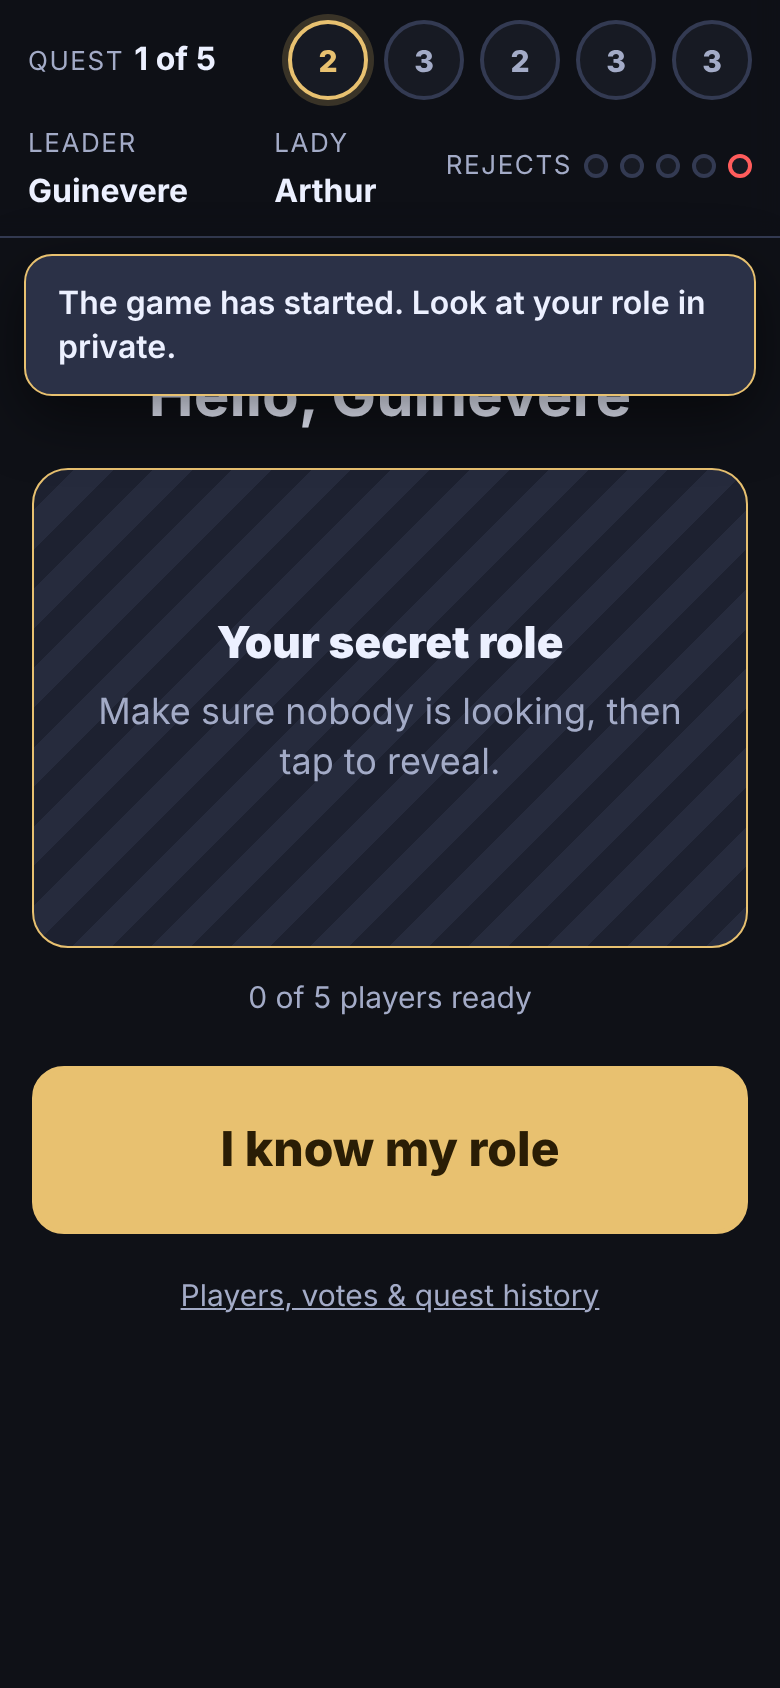
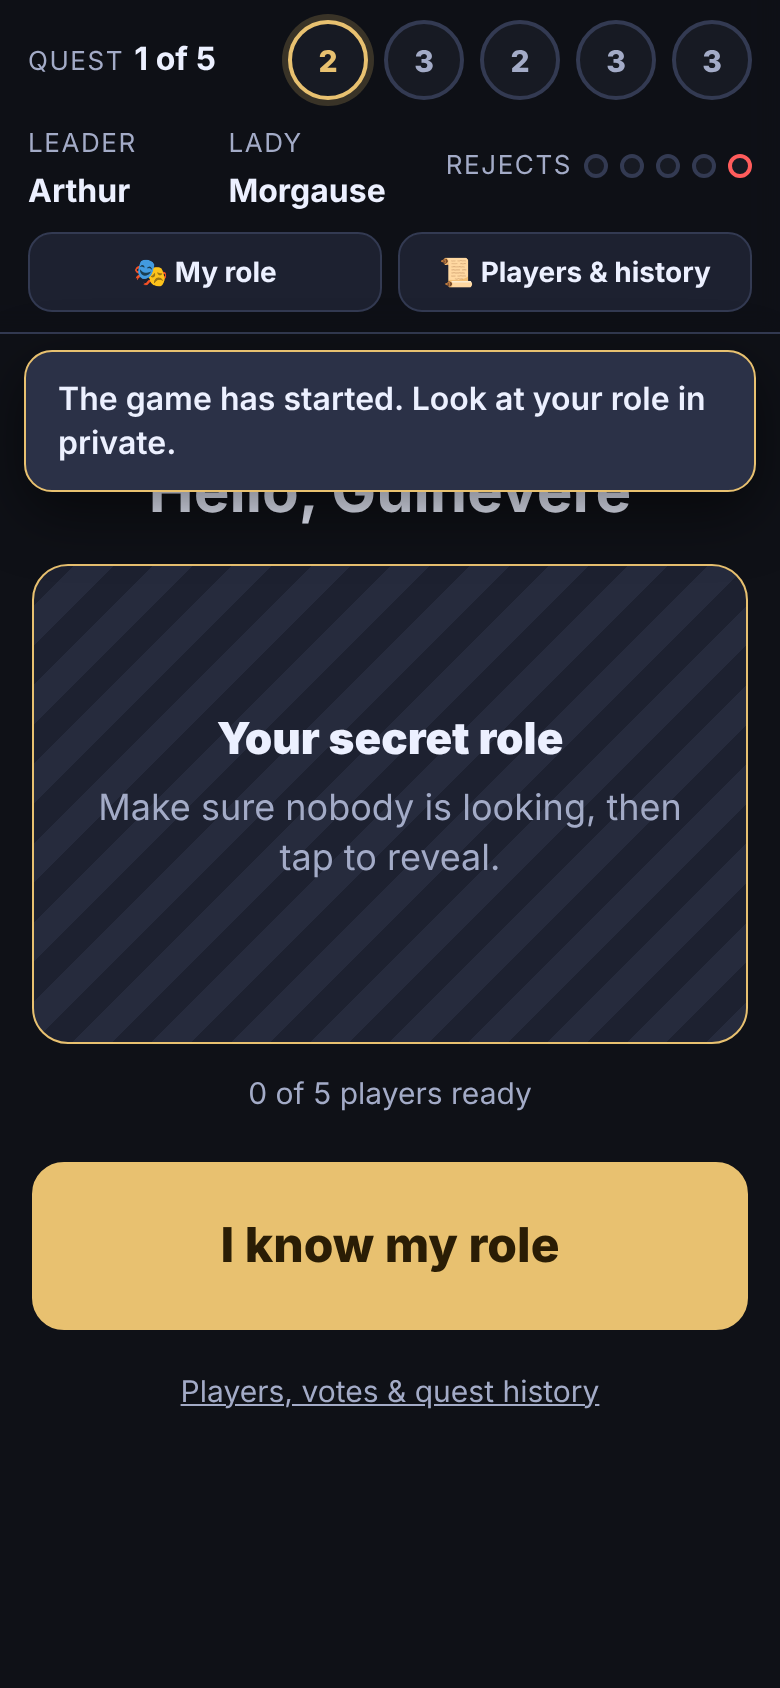
Quest result announcement, My role button, changeable votes, in-page confirmations
- Big 5-second quest result dialog (with an x to close) on every phone
  when a quest finishes.
- 'My role' button in the status bar re-opens the role card mid-game.
- Players can change their vote until everyone has voted (engine now
  replaces an existing vote instead of rejecting it).
- Replace the browser's confirm() with an in-page dialog: Android's
  WebView silently cancels native confirm(), which is why Restart (and
  kick/assassinate) did nothing on the host phone. The WebView also gets
  a WebChromeClient as belt and braces.

Claude-Session: https://claude.ai/code/session_01L9td7i8WK9tKyVLFpHJSvk

diff --git a/server/src/main/resources/web/app.js b/server/src/main/resources/web/app.js
@@ -193,8 +193,10 @@
     if (state.phase === 'LOBBY') ui.roleShown = false;
     const newEvent = state.lastEvent && state.lastEvent !== ui.lastEventShown;
     ui.lastEventShown = state.lastEvent;
+    if (prev && prev.phase !== state.phase && modalOnYes) closeModal(); // a pending confirmation is stale after a phase change
     render();
     if (newEvent && prev) banner(state.lastEvent); // after render, so it sits below the status bar
+    if (prev && state.quests.length > prev.quests.length) announceQuest(state.quests[state.quests.length - 1]);
   }
 
   // ------------------------------------------------------------ helpers
@@ -235,6 +237,23 @@
       text: 'A servant of darkness. You know your fellow evil players.',
       tips: ['Get picked for quests and play Fail (one is usually enough).', 'Reject teams full of good players; approve teams that include evil.', 'Help identify Merlin for the Assassin at the end.'] },
   };
+
+  /** The inside of a role card: picture, name, loyalty, what you know, how to play. */
+  function roleCardHtml(m) {
+    const info = ROLE_INFO[m.role] || { name: m.role, loyalty: m.loyalty, text: '', tips: [] };
+    const good = m.loyalty === 'GOOD';
+    let knowledge = '';
+    if (m.role === 'MERLIN') knowledge = `<div class="know"><h3>These players are evil</h3>${nameTags(m.knownEvil)}</div>`;
+    else if (m.role === 'PERCIVAL') knowledge = `<div class="know"><h3>Merlin and Morgana (in some order)</h3>${nameTags(m.merlinOrMorgana)}</div>`;
+    else if (!good) knowledge = `<div class="know"><h3>Your fellow evil players</h3>${m.evilTeammates.length ? nameTags(m.evilTeammates) : '<span class="muted">none</span>'}</div>`;
+    else knowledge = `<div class="know"><h3>What you know</h3><span class="muted">Only your own loyalty.</span></div>`;
+    return `${info.img ? roleImage(info) : ''}
+      <div class="loyalty">${good ? 'Good' : 'Evil'}</div>
+      <div class="role-name">${esc(info.name)}</div>
+      <p class="muted" style="font-size:16px">${esc(info.text)}</p>
+      ${knowledge}
+      <div class="know"><h3>How to play</h3><ul class="tips">${(info.tips || []).map((t) => `<li>${esc(t)}</li>`).join('')}</ul></div>`;
+  }
 
   function roleImage(info, cls) {
     return `<img class="${cls || 'role-img'}" src="img/${info.img}.png" alt="" onerror="if(!this.dataset.fb){this.dataset.fb=1;this.src='img/${info.img}.svg'}">`;
@@ -288,6 +307,10 @@
         <div style="min-width:0"><span class="label">Leader</span> <span class="value">${esc(nameOf(s.leaderId))}</span></div>
         ${lady}
         <div class="rejects" title="Rejected proposals this quest: ${s.rejections} of 5"><span class="label">Rejects</span> ${rejects}</div>
+      </div>
+      <div class="status-tools">
+        <button class="icon-btn" data-action="showRole">🎭 My role</button>
+        <button class="icon-btn" data-action="openHistory">📜 Players &amp; history</button>
       </div>`;
   }
 
@@ -354,20 +377,9 @@
     const ready = s.readyIds.length;
     const n = s.players.length;
     const done = m.pendingAction !== 'CONFIRM_ROLE';
-    let knowledge = '';
-    if (m.role === 'MERLIN') knowledge = `<div class="know"><h3>These players are evil</h3>${nameTags(m.knownEvil)}</div>`;
-    else if (m.role === 'PERCIVAL') knowledge = `<div class="know"><h3>Merlin and Morgana (in some order)</h3>${nameTags(m.merlinOrMorgana)}</div>`;
-    else if (!good) knowledge = `<div class="know"><h3>Your fellow evil players</h3>${m.evilTeammates.length ? nameTags(m.evilTeammates) : '<span class="muted">none</span>'}</div>`;
-    else knowledge = `<div class="know"><h3>What you know</h3><span class="muted">Only your own loyalty.</span></div>`;
-
     const card = ui.roleShown
       ? `<div class="card role-card ${good ? 'good' : 'evil'}" data-action="toggleRole">
-           ${roleImage(info)}
-           <div class="loyalty">${good ? 'Good' : 'Evil'}</div>
-           <div class="role-name">${esc(info.name)}</div>
-           <p class="muted" style="font-size:16px">${esc(info.text)}</p>
-           ${knowledge}
-           <div class="know"><h3>How to play</h3><ul class="tips">${(info.tips || []).map((t) => `<li>${esc(t)}</li>`).join('')}</ul></div>
+           ${roleCardHtml(m)}
            <p class="muted" style="margin:14px 0 0;font-size:14px">Tap the card to hide it</p>
          </div>`
       : `<div class="card role-card covered" data-action="toggleRole" role="button" tabindex="0">
@@ -434,19 +446,19 @@
     const n = s.players.length;
     const teamList = `<div class="card"><h3>Proposed team · Quest ${s.quest}</h3><ul class="list">${team.map((id) => `<li>${avatar(byId(id))}<span class="name">${esc(nameOf(id))}${isMe(id) ? ' (you)' : ''}</span>${id === s.leaderId ? '<span class="tag gold">Leader</span>' : ''}</li>`).join('')}</ul></div>`;
     const progress = `<div class="card flat"><h3>${voted} of ${n} voted</h3><div class="votes">${s.players.map((p) => `<div class="v ${s.votedIds.includes(p.id) ? '' : 'pending'}"><span class="name">${esc(p.name)}</span><span>${s.votedIds.includes(p.id) ? '✓' : '…'}</span></div>`).join('')}</div></div>`;
-    if (m.pendingAction === 'VOTE') {
+    const mine = m.yourVote;
+    const buttons = `<div class="actions"><div class="row">
+          <button class="btn big good ${mine === 'APPROVE' ? 'chosen' : mine ? 'unchosen' : ''}" data-action="vote" data-vote="APPROVE">Approve</button>
+          <button class="btn big evil ${mine === 'REJECT' ? 'chosen' : mine ? 'unchosen' : ''}" data-action="vote" data-vote="REJECT">Reject</button>
+        </div>${mine ? '<p class="voted-note">You can change your vote until everyone has voted.</p>' : ''}</div>`;
+    if (!mine) {
       return `
         <div class="hero"><div class="eyebrow">Vote · Rejection ${s.rejections} of 5</div><h1>${esc(nameOf(s.leaderId))} proposes</h1><p>Approve or reject this team. Votes are revealed together.</p></div>
-        ${teamList}
-        <div class="actions"><div class="row">
-          <button class="btn big good" data-action="vote" data-vote="APPROVE">Approve</button>
-          <button class="btn big evil" data-action="vote" data-vote="REJECT">Reject</button>
-        </div></div>
-        ${historyButton()}`;
+        ${teamList}${buttons}`;
     }
     return `
-      <div class="hero"><div class="eyebrow">Vote · Quest ${s.quest}</div><h1>You voted ${m.yourVote === 'APPROVE' ? '👍 Approve' : '👎 Reject'}</h1><p class="pulse">Waiting for everyone…</p></div>
-      ${teamList}${progress}${historyButton()}`;
+      <div class="hero"><div class="eyebrow">Vote · Quest ${s.quest}</div><h1>You voted ${mine === 'APPROVE' ? '👍 Approve' : '👎 Reject'}</h1><p class="pulse">Waiting for everyone…</p></div>
+      ${teamList}${progress}${buttons}`;
   }
 
   // ---- quest
@@ -622,6 +634,45 @@
     clearTimeout(bannerTimer);
     bannerTimer = setTimeout(() => bannerEl.classList.add('hidden'), 7000);
   }
+  // ---- modal
+  const modalEl = $('modal');
+  const modalBody = $('modal-body');
+  let modalTimer = null;
+  let modalOnYes = null;
+  function showModal(html, opts) {
+    opts = opts || {};
+    clearTimeout(modalTimer);
+    modalOnYes = opts.onYes || null;
+    modalBody.innerHTML = html;
+    modalEl.querySelector('.modal-card').className = 'modal-card ' + (opts.cls || '');
+    modalEl.classList.remove('hidden');
+    if (opts.autoCloseMs) modalTimer = setTimeout(closeModal, opts.autoCloseMs);
+  }
+  function closeModal() { clearTimeout(modalTimer); modalOnYes = null; modalEl.classList.add('hidden'); modalBody.innerHTML = ''; }
+  /** In-page confirmation: the browser's native dialog is silently cancelled inside Android WebViews. */
+  function confirmDialog(text, onYes) {
+    showModal(`<p style="font-size:19px;font-weight:700;margin:6px 0 16px">${esc(text)}</p>
+      <div class="row"><button class="btn ghost" data-action="closeModal">Cancel</button><button class="btn" data-action="confirmYes">Yes</button></div>`, { onYes });
+  }
+  const ANNOUNCE_MS = 5000;
+  function announceQuest(q) {
+    const ok = q.succeeded;
+    showModal(`<div class="announce">
+        <div class="eyebrow">Quest ${q.quest} result</div>
+        <div class="big-result ${ok ? 'good' : 'evil'}">${ok ? 'SUCCESS' : 'FAILED'}</div>
+        <div class="cards-result">${'<div class="qcard success">SUCCESS</div>'.repeat(q.successes)}${'<div class="qcard fail">FAIL</div>'.repeat(q.fails)}</div>
+        <div class="counts">${q.successes} success · ${q.fails} fail${q.failsRequired === 2 ? ' · two fails were needed' : ''}</div>
+        <div class="muted" style="font-size:14px">Team: ${q.teamIds.map(nameOf).map(esc).join(', ')}</div>
+        <div class="timer"><div style="--ms:${ANNOUNCE_MS}ms"></div></div>
+      </div>`, { cls: ok ? 'good' : 'evil', autoCloseMs: ANNOUNCE_MS });
+  }
+  function showRoleModal() {
+    const m = me();
+    if (!m || !m.role) return;
+    showModal(`<div class="role-card ${m.loyalty === 'GOOD' ? 'good' : 'evil'}" style="padding:10px 0 0">${roleCardHtml(m)}</div>
+      <button class="btn secondary" data-action="closeModal" style="margin-top:14px">Hide</button>`, { cls: m.loyalty === 'GOOD' ? 'good' : 'evil' });
+  }
+
   function showOverlay(text) { overlayText.textContent = text; overlayEl.classList.remove('hidden'); }
   function hideOverlay() { overlayEl.classList.add('hidden'); }
 
@@ -649,7 +700,7 @@
     const id = el.getAttribute('data-id');
     switch (action) {
       case 'start': act('start'); break;
-      case 'kick': if (confirm('Remove ' + nameOf(id) + ' from the table?')) act('kick', { playerId: id }); break;
+      case 'kick': confirmDialog('Remove ' + nameOf(id) + ' from the table?', () => act('kick', { playerId: id })); break;
       case 'toggleLady': act('setOptions', { ladyOfTheLake: !s.ladyEnabled }); break;
       case 'toggleRole': ui.roleShown = !ui.roleShown; render(); break;
       case 'confirmRole': ui.roleShown = false; act('confirmRole'); break;
@@ -668,16 +719,20 @@
       case 'ladyExamine': if (ui.pickedLady) act('ladyExamine', { playerId: ui.pickedLady }); break;
       case 'ladyConfirm': act('ladyConfirm'); break;
       case 'pickAssassin': ui.pickedAssassin = ui.pickedAssassin === id ? null : id; render(); break;
-      case 'assassinate': if (ui.pickedAssassin && confirm('Assassinate ' + nameOf(ui.pickedAssassin) + '? This ends the game.')) act('assassinate', { playerId: ui.pickedAssassin }); break;
+      case 'assassinate': if (ui.pickedAssassin) { const t = ui.pickedAssassin; confirmDialog('Assassinate ' + nameOf(t) + '? This ends the game.', () => act('assassinate', { playerId: t })); } break;
       case 'playAgain': act('playAgain'); break;
       case 'openHistory': ui.historyOpen = true; renderHistory(); break;
       case 'allowRejoin': act('allowRejoin', { playerId: id }); break;
-      case 'restart': if (confirm('Abandon this game and send everyone back to the lobby? Roles will be dealt again.')) { closeHistory(); act('restart'); } break;
+      case 'restart': confirmDialog('Abandon this game and send everyone back to the lobby? Roles will be dealt again.', () => { closeHistory(); act('restart'); }); break;
+      case 'closeModal': closeModal(); break;
+      case 'confirmYes': { const fn = modalOnYes; closeModal(); if (fn) fn(); break; }
+      case 'showRole': showRoleModal(); break;
       case 'closeHistory': closeHistory(); break;
       default: break;
     }
   });
   sheetEl.addEventListener('click', (ev) => { if (ev.target === sheetEl) closeHistory(); });
+  modalEl.addEventListener('click', (ev) => { if (ev.target === modalEl) closeModal(); });
   bannerEl.addEventListener('click', () => bannerEl.classList.add('hidden'));
 
   // Expose a tiny hook for automated UI tests (no game data beyond what the player already sees).

diff --git a/server/src/main/resources/web/style.css b/server/src/main/resources/web/style.css
@@ -266,3 +266,24 @@ th { color: var(--muted); font-size: 13px; text-transform: uppercase; letter-spa
 .role-thumb { width: 28px; height: 37px; border-radius: 4px; vertical-align: middle; margin-right: 8px; object-fit: cover; }
 .tips { margin: 0; padding-left: 18px; font-size: 15px; color: var(--text); }
 .tips li { margin: 4px 0; }
+
+/* ---------- modal (quest announcements, my role, confirmations) ---------- */
+.modal { position: fixed; inset: 0; z-index: 60; background: rgba(5, 6, 10, .82); display: flex; align-items: center; justify-content: center; padding: 16px; animation: fade .2s ease; }
+@keyframes fade { from { opacity: 0; } to { opacity: 1; } }
+.modal-card { position: relative; width: 100%; max-width: 420px; max-height: 92vh; overflow: auto; background: var(--card); border: 2px solid var(--line); border-radius: 22px; padding: 22px 18px 18px; box-shadow: 0 20px 60px rgba(0, 0, 0, .7); animation: pop .25s ease; }
+@keyframes pop { from { transform: scale(.9); opacity: 0; } to { transform: none; opacity: 1; } }
+.modal-card.good { border-color: var(--good); background: var(--good-bg); }
+.modal-card.evil { border-color: var(--evil); background: var(--evil-bg); }
+.modal-x { position: absolute; top: 8px; right: 8px; width: 44px; height: 44px; border-radius: 50%; border: 1px solid var(--line); background: rgba(0, 0, 0, .35); color: var(--text); font-size: 26px; line-height: 1; cursor: pointer; z-index: 1; }
+.announce { text-align: center; padding: 10px 0 4px; }
+.announce .eyebrow { color: var(--gold); font-weight: 800; letter-spacing: .14em; text-transform: uppercase; font-size: 13px; }
+.announce .big-result { font-size: 46px; margin: 6px 0; }
+.announce .counts { font-size: 18px; color: var(--muted); margin-bottom: 6px; }
+.announce .timer { height: 4px; background: var(--line); border-radius: 2px; overflow: hidden; margin-top: 14px; }
+.announce .timer > div { height: 100%; background: var(--gold); width: 100%; animation: drain var(--ms, 5000ms) linear forwards; }
+@keyframes drain { from { width: 100%; } to { width: 0; } }
+.status-tools { display: flex; gap: 8px; max-width: 560px; margin: 8px auto 0; }
+.status-tools .icon-btn { flex: 1; justify-content: center; min-height: 40px; padding: 4px 10px; font-size: 14px; }
+.voted-note { text-align: center; color: var(--muted); font-size: 15px; margin-top: 8px; }
+.btn.chosen { box-shadow: 0 0 0 4px rgba(255, 255, 255, .35); }
+.btn.unchosen { opacity: .45; }

diff --git a/app/src/main/java/avalon/host/PlayerActivity.kt b/app/src/main/java/avalon/host/PlayerActivity.kt
@@ -3,6 +3,7 @@ package avalon.host
 import android.annotation.SuppressLint
 import android.os.Bundle
 import android.view.WindowManager
+import android.webkit.WebChromeClient
 import android.webkit.WebSettings
 import android.webkit.WebView
 import android.webkit.WebViewClient
@@ -31,6 +32,7 @@ class PlayerActivity : AppCompatActivity() {
             textZoom = 100
         }
         web.webViewClient = WebViewClient()
+        web.webChromeClient = WebChromeClient() // without this, JS alert/confirm dialogs are silently cancelled
         web.setBackgroundColor(0xFF0F1117.toInt())
         if (savedInstanceState == null) {
             web.loadUrl(intent.getStringExtra(EXTRA_URL) ?: "http://127.0.0.1:${HostService.PORT}/")

diff --git a/engine/src/main/kotlin/avalon/engine/Game.kt b/engine/src/main/kotlin/avalon/engine/Game.kt
@@ -209,8 +209,7 @@ class Game(private val random: Random = Random.Default) {
     fun vote(playerId: String, vote: Vote) {
         requirePhase(Phase.TEAM_VOTE, "Not the voting phase")
         player(playerId)
-        if (playerId in votes) throw IllegalActionException("You have already voted")
-        votes[playerId] = vote
+        votes[playerId] = vote // a player may change their mind until everyone has voted
         if (votes.size < seats.size) { bump(); return }
 
         val approvals = votes.values.count { it == Vote.APPROVE }

diff --git a/engine/src/test/kotlin/avalon/engine/GameTest.kt b/engine/src/test/kotlin/avalon/engine/GameTest.kt
@@ -212,7 +212,9 @@ class GameTest {
         val g = started(5)
         g.proposeTeam(g.leader().id, listOf("p0", "p1"))
         g.vote("p0", Vote.APPROVE)
-        assertFailsWith<IllegalActionException> { g.vote("p0", Vote.REJECT) }
+        g.vote("p0", Vote.REJECT) // allowed to change until the vote closes
+        assertEquals(Vote.REJECT, g.viewFor("p0").you.yourVote)
+        g.vote("p0", Vote.APPROVE)
         val v = g.viewFor("p1")
         assertEquals(listOf("p0"), v.votedIds)
         assertTrue(v.voteHistory.isEmpty())

diff --git a/server/src/main/resources/web/index.html b/server/src/main/resources/web/index.html
@@ -22,6 +22,12 @@
       <div id="overlay-text">Connecting…</div>
     </div>
   </div>
+  <div id="modal" class="modal hidden" role="dialog" aria-modal="true">
+    <div class="modal-card">
+      <button class="modal-x" data-action="closeModal" aria-label="Close">×</button>
+      <div id="modal-body"></div>
+    </div>
+  </div>
   <div id="sheet" class="sheet hidden">
     <div class="sheet-inner">
       <div class="sheet-head">
